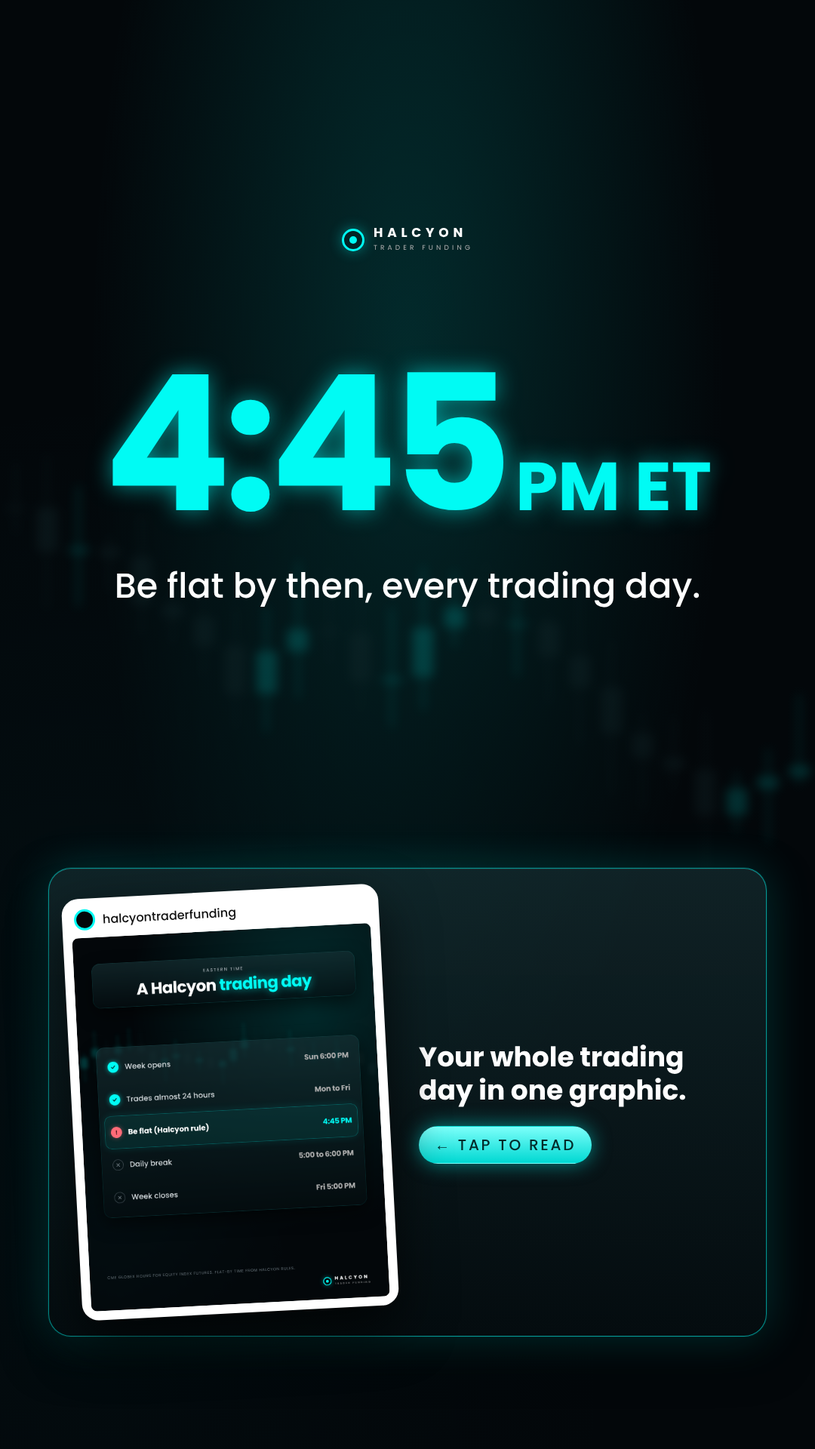
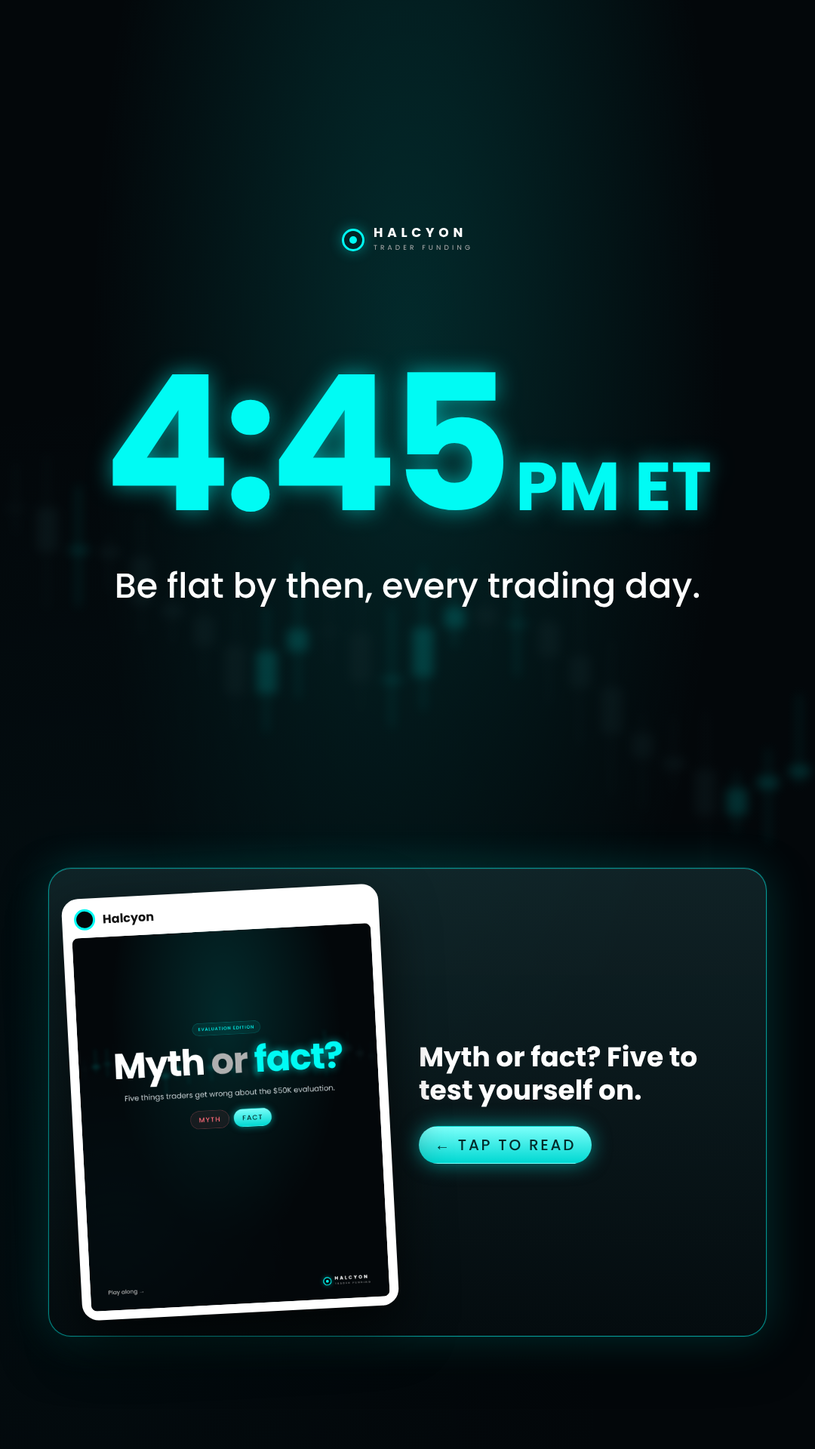
IG stories: drop handle placeholder, Monday story links to Myth or fact
Claude-Session: https://claude.ai/code/session_014Wg4vonDNkrUksnr9PVWof

Changed region(s): [[0.0917, 0.625, 0.4583, 0.8438], [0.5194, 0.7188, 0.8556, 0.7812]]

diff --git a/ig/data.js b/ig/data.js
@@ -1,1 +1,1 @@
-window.D={"posts": [{"id": "nb", "title": "News brief", "short": "News brief", "when": "News · Carousel", "brief": {"job": "The big market story in plain English within 24 hours, told in points and finished with the Halcyon angle: how much of a $2,000 drawdown the move would use on one ES and one MES.", "topics": "Big market days · Monthly recaps · Fed, CPI and jobs days · Big tech earnings", "fixed": "TikTok glow-panel look: blurred candle backdrop, glowing hero chart on the cover, glass stat panels, header panels, round bars. Moves shown in points or percent, never as dollar wins. The drawdown meter slide is the signature. Ends on a Follow, Save, Discord slide.", "cadence": "Within 24 hours of major news"}, "versions": [{"name": "Best post-midterm day since 1982 (4 Nov)", "caption": "The Dow just had its best post-midterm day since 1982 📈\nUp 3.03% on Wednesday, while oil slid about 8.5%.\nThe S&P 500 moved 119.7 points. On one ES that's three times a whole $2,000 drawdown. On one MES it's under a third.\nSame chart, very different evenings, depending on your size.\nWere you in it or watching?\n\n👉 Talk through your Wednesday in our Discord: link in bio\n\nHalcyon offers simulated educational accounts. Results not guaranteed. T&C apply.\n#futurestrading #daytrading #stockmarket #ES", "frames": [{"src": "img/nbA_1.png", "cap": "Cover"}, {"src": "img/nbA_2.png", "cap": "Movers"}, {"src": "img/nbA_3.png", "cap": "Why"}, {"src": "img/nbA_4.png", "cap": "In points"}, {"src": "img/nbA_5.png", "cap": "Drawdown meter"}, {"src": "img/nbA_6.png", "cap": "Follow"}], "links": [{"label": "TheStreet, close 4 Nov", "url": "https://www.thestreet.com/stock-market-today/stock-market-today-dow-jones-sp-500-nasdaq-updates-nov-04-2026"}, {"label": "CNN, best post-midterm day since 1982", "url": "https://www.cnn.com/2026/11/04/investing/us-markets-midterm-elections"}, {"label": "Finwire, oil, gold and yields", "url": "https://finwire.io/news/forex-news/financial-forex-market-recap-nov-4-2026"}]}, {"name": "October recap", "caption": "October was a rough month inside a good year 📉\nThe S&P 500 fell 2.11% and the Nasdaq 6.03% as AI spending doubts hit tech. Both are still up more than 9% this year.\nThe S&P drifted about 163 points over the month. That's four times the room a $2,000 drawdown gives one ES.\nHow did October treat you?\n\n👉 Share your October in our Discord: link in bio\n\nHalcyon offers simulated educational accounts. Results not guaranteed. T&C apply.\n#futurestrading #marketrecap #daytrading", "frames": [{"src": "img/nbB_1.png", "cap": "Cover"}, {"src": "img/nbB_2.png", "cap": "Month vs year"}, {"src": "img/nbB_3.png", "cap": "Why"}, {"src": "img/nbB_4.png", "cap": "Drawdown meter"}, {"src": "img/nbB_5.png", "cap": "Follow"}], "links": [{"label": "Tapeboard, October 2026 recap", "url": "https://tapeboard.com/blog/monthly-recap-2026-10"}]}]}, {"id": "gc", "title": "Group chat", "short": "Group chat", "when": "News · Carousel · New", "brief": {"job": "The day's news told as a traders' group chat, then a fact-check slide with the real numbers. The fun way into a news day, for people who scroll past charts.", "topics": "Wild market days · Surprise data · Holiday sessions · Anything the timeline is yelling about", "fixed": "Glass phone-style chat panel with cyan bubbles for 'me'. Two chat slides, then a fact-checked checklist with sources. Invented first names only, never real people.", "cadence": "On big news days, 1 to 2 a week"}, "versions": [{"name": "Oil day in the group chat (4 Nov)", "caption": "The group chat on Wednesday 💀\nOil fell about 8.5%, gold went back above $4,000 and the Dow ripped 1,569 points.\nSomewhere, a CL long is being held for the weekend.\nWhat did your chat look like?\n\n👉 Bring the screenshots to our Discord: link in bio\n\n#tradinghumor #futurestrading #crudeoil #daytrading", "frames": [{"src": "img/gcA_1.png", "cap": "Chat 1"}, {"src": "img/gcA_2.png", "cap": "Chat 2"}, {"src": "img/gcA_3.png", "cap": "Fact-check"}], "links": [{"label": "TheStreet, close 4 Nov", "url": "https://www.thestreet.com/stock-market-today/stock-market-today-dow-jones-sp-500-nasdaq-updates-nov-04-2026"}, {"label": "CNN, best post-midterm day since 1982", "url": "https://www.cnn.com/2026/11/04/investing/us-markets-midterm-elections"}, {"label": "Finwire, oil, gold and yields", "url": "https://finwire.io/news/forex-news/financial-forex-market-recap-nov-4-2026"}]}]}, {"id": "na", "title": "News alert", "short": "News alert", "when": "News · Single", "brief": {"job": "One fast graphic for a big move, posted the same day. A little personality in the headline, the facts straight underneath.", "topics": "Oil, gold and index moves · Record days · Surprise data", "fixed": "Glowing glass panel with a before and after bar pair, or one giant glowing number. Red news pill, two-line headline with a glowing half, source line.", "cadence": "Same day as the move"}, "versions": [{"name": "Oil had a rough Wednesday", "caption": "Oil had a rough Wednesday 🛢\nWTI slid about 8.5% in one session, to near $89, as war-risk talk cooled after the election.\nCrude traders, how are we holding up?\n\n👉 Swap oil stories in our Discord: link in bio\n\n#crudeoil #futurestrading #marketnews", "frames": [{"src": "img/naA.png", "cap": "Oil"}], "links": [{"label": "Finwire, oil, gold and yields", "url": "https://finwire.io/news/forex-news/financial-forex-market-recap-nov-4-2026"}]}, {"name": "Gold back above $4,000", "caption": "Gold is back above $4,000 🟡\nUp about 3.3% on Wednesday as the dollar and bond yields slipped.\nBull or bear from here?\n\n👉 Make your call in our Discord: link in bio\n\n#gold #futurestrading #marketnews", "frames": [{"src": "img/naB.png", "cap": "Gold"}], "links": [{"label": "Finwire, oil, gold and yields", "url": "https://finwire.io/news/forex-news/financial-forex-market-recap-nov-4-2026"}]}, {"name": "Dow +1,569", "caption": "+1,569 points in one day 📈\nThe Dow's best day since April 2025, and its biggest post-midterm gain since 1982.\nWhere were you when it ripped?\n\n👉 Tell us in our Discord: link in bio\n\n#dowjones #stockmarket #futurestrading", "frames": [{"src": "img/naC.png", "cap": "Dow"}], "links": [{"label": "CNN, best post-midterm day since 1982", "url": "https://www.cnn.com/2026/11/04/investing/us-markets-midterm-elections"}]}]}, {"id": "md", "title": "Market mood", "short": "Market mood", "when": "News · Single · New", "brief": {"job": "A playful scoreboard: every big market gets a mood for the day, plus its real move. Replaces 18th Street's per-contract dollar scoreboard.", "topics": "Big days · Friday weekly wrap · Month end", "fixed": "Stacked glass rows, a mood pill for each market (cyan, red or grey), the move glowing on the right. The day's winner gets the glowing panel.", "cadence": "After big days, or Fridays"}, "versions": [{"name": "How every market's Wednesday went", "caption": "How every market's Wednesday went 😮💨\nThe Dow had its best day since April 2025. Oil was down bad. The VIX took the day off.\nWhich one matched your mood?\n\n👉 Drop your mood in our Discord: link in bio\n\n#futurestrading #tradinghumor #stockmarket", "frames": [{"src": "img/mdA.png", "cap": "Mood board"}], "links": [{"label": "TheStreet, close 4 Nov", "url": "https://www.thestreet.com/stock-market-today/stock-market-today-dow-jones-sp-500-nasdaq-updates-nov-04-2026"}, {"label": "CNN, best post-midterm day since 1982", "url": "https://www.cnn.com/2026/11/04/investing/us-markets-midterm-elections"}, {"label": "Finwire, oil, gold and yields", "url": "https://finwire.io/news/forex-news/financial-forex-market-recap-nov-4-2026"}]}]}, {"id": "wk", "title": "This week", "short": "This week", "when": "News · Carousel", "brief": {"job": "Every Sunday, the week's market-moving events with Eastern times, and the Halcyon rule that applies to each one.", "topics": "CPI, PPI, jobs, Fed days · Holidays and early closes · Big earnings", "fixed": "Glowing day-card row on the cover. One slide per event: glowing date tile, What it is and Why traders care panels, a red Halcyon rule panel where one applies, and the time huge at the bottom. Ends on a save-this-week checklist.", "cadence": "Every Sunday"}, "versions": [{"name": "Inflation week (9 to 13 Nov)", "caption": "Inflation week is here 🗓\nCPI lands Tuesday at 8:30 AM ET and PPI follows on Friday, with a bond holiday in between.\nPlan your trade before 8:30, or give yourself permission to sit it out.\nSave this so Tuesday doesn't sneak up on you.\n\n👉 Plan the week with us in our Discord: link in bio\n\nHalcyon offers simulated educational accounts. Results not guaranteed. T&C apply.\n#futurestrading #CPI #economiccalendar #daytrading", "frames": [{"src": "img/wkA_1.png", "cap": "Cover"}, {"src": "img/wkA_2.png", "cap": "CPI"}, {"src": "img/wkA_3.png", "cap": "Veterans Day"}, {"src": "img/wkA_4.png", "cap": "PPI"}, {"src": "img/wkA_5.png", "cap": "Save this week"}], "links": [{"label": "Release calendar (CPI, PPI)", "url": "https://fedratecalc.com/us-economic-calendar/november-2026/"}, {"label": "Schwab week ahead", "url": "https://www.schwab.com/learn/story/stock-market-update-open"}]}, {"name": "Thanksgiving week (23 to 27 Nov)", "caption": "Short week, busy Wednesday 🦃\nGDP and PCE drop at the same second on Wednesday, then Thanksgiving cuts two sessions short.\nHoliday markets are thin, so small orders can move price more than you'd expect.\nSave this for the week.\n\n👉 Check holiday hours with us in our Discord: link in bio\n\nHalcyon offers simulated educational accounts. Results not guaranteed. T&C apply.\n#futurestrading #thanksgiving #tradinghours", "frames": [{"src": "img/wkB_1.png", "cap": "Cover"}, {"src": "img/wkB_2.png", "cap": "GDP + PCE"}, {"src": "img/wkB_3.png", "cap": "Thanksgiving"}, {"src": "img/wkB_4.png", "cap": "Day after"}, {"src": "img/wkB_5.png", "cap": "Save this week"}], "links": [{"label": "CME holiday calendar", "url": "https://www.cmegroup.com/tools-information/holiday-calendar.html"}, {"label": "QuantVPS, CME holiday hours 2026", "url": "https://www.quantvps.com/blog/cme-holiday-schedule"}]}]}, {"id": "et", "title": "Every trader should know", "short": "Explainers", "when": "Explainer · Carousel", "brief": {"job": "One idea a futures trader needs, one step per slide, with a real example from this week's market. Same question-hook, one-idea-per-slide rhythm as the TikTok trailing drawdown carousel.", "topics": "Drawdown in points · Order types · Contract sizing · Reading a release", "fixed": "Question hook on the cover, header panels marked Step 1, 2, 3, glass tables and price ladders, the drawdown meter for real examples. Ends on Follow, Save, Discord.", "cadence": "Weekly"}, "versions": [{"name": "How many points is your drawdown?", "caption": "How many points is your drawdown? 📏\nOn one ES, $2,000 is 40 points. On one MES it's 400.\nWednesday the S&P moved 119.7 points, so the contract you pick decides whether that's a normal day or the end of the account.\nSave this before you size your next trade.\n\n👉 Questions on sizing? Ask in our Discord: link in bio\n\nHalcyon offers simulated educational accounts. Results not guaranteed. T&C apply.\n#futurestrading #ES #riskmanagement #propfirm", "frames": [{"src": "img/etA_1.png", "cap": "Cover"}, {"src": "img/etA_2.png", "cap": "Point values"}, {"src": "img/etA_3.png", "cap": "Room in points"}, {"src": "img/etA_4.png", "cap": "Real example"}, {"src": "img/etA_5.png", "cap": "Micros"}, {"src": "img/etA_6.png", "cap": "Follow"}], "links": [{"label": "CME E-mini S&P 500 specs", "url": "https://www.cmegroup.com/markets/equities/sp/e-mini-sandp500.contractSpecs.html"}, {"label": "Halcyon site (rules, fees)", "url": "https://www.halcyontraderfunding.com"}]}, {"name": "Market, limit or stop?", "caption": "Market, limit or stop? 🎯\nA market order fills now. A limit waits for your price. A stop turns into a market order the moment it's touched, which is why it can fill past your level on CPI mornings.\nWhich one surprised you the first time?\n\n👉 Ask us anything about orders in our Discord: link in bio\n\nHalcyon offers simulated educational accounts. Results not guaranteed. T&C apply.\n#futurestrading #tradingeducation #daytrading", "frames": [{"src": "img/etB_1.png", "cap": "Cover"}, {"src": "img/etB_2.png", "cap": "Market"}, {"src": "img/etB_3.png", "cap": "Limit"}, {"src": "img/etB_4.png", "cap": "Stop"}, {"src": "img/etB_5.png", "cap": "Follow"}], "links": [{"label": "Halcyon site (rules, fees)", "url": "https://www.halcyontraderfunding.com"}]}]}, {"id": "mm", "title": "Meme explainer", "short": "Meme explainer", "when": "Explainer · Carousel", "brief": {"job": "A joke traders recognise, with the rule underneath. The IG cousin of the TikTok 4:44 PM and CPI memes, so the same jokes reinforce each other across both accounts.", "topics": "Rules that end accounts · Myths about evaluations · Trader habits", "fixed": "Meme panel in glass on top, a red rule panel with a warning icon below. Built from type, chat bubbles and order tickets, so nothing needs a licensed meme. Myth or fact uses a quote panel and a tilted MYTH or FACT stamp.", "cadence": "Weekly"}, "versions": [{"name": "4 ways to fail without a losing trade", "caption": "Your strategy can be fine and the account can still end 😅\nHolding at 4:45 PM ET, skipping the stop, straddling the CPI print or hedging across accounts. All four break the rules, win or lose.\nWhich one have you seen someone try?\n\n👉 More rules, explained simply, in our Discord: link in bio\n\nHalcyon offers simulated educational accounts. Results not guaranteed. T&C apply.\n#tradinghumor #propfirm #futurestrading #daytrading", "frames": [{"src": "img/mmA_1.png", "cap": "Cover"}, {"src": "img/mmA_2.png", "cap": "The clock"}, {"src": "img/mmA_3.png", "cap": "The stop"}, {"src": "img/mmA_4.png", "cap": "The cheat code"}, {"src": "img/mmA_5.png", "cap": "The big brain"}, {"src": "img/mmA_6.png", "cap": "Takeaway"}], "links": [{"label": "Halcyon site (rules, fees)", "url": "https://www.halcyontraderfunding.com"}]}, {"name": "Myth or fact: evaluation edition", "caption": "Myth or fact, evaluation edition 🤔\nFive things traders get wrong about the $50K evaluation, from the 1-day minimum to how 25 micros really compare to 5 minis.\nPlay along and drop your score in the comments.\n\n👉 Check every rule with us in our Discord: link in bio\n\nHalcyon offers simulated educational accounts. Results not guaranteed. T&C apply.\n#propfirm #futurestrading #mythorfact", "frames": [{"src": "img/mmB_1.png", "cap": "Cover"}, {"src": "img/mmB_2.png", "cap": "01"}, {"src": "img/mmB_3.png", "cap": "02"}, {"src": "img/mmB_4.png", "cap": "03"}, {"src": "img/mmB_5.png", "cap": "04"}, {"src": "img/mmB_6.png", "cap": "05"}, {"src": "img/mmB_7.png", "cap": "Score"}], "links": [{"label": "Halcyon site (rules, fees)", "url": "https://www.halcyontraderfunding.com"}]}]}, {"id": "kh", "title": "Know your hours", "short": "Know your hours", "when": "Explainer · Single", "brief": {"job": "A save-worthy timetable: when the market opens, breaks and closes, and when Halcyon needs you flat.", "topics": "A trading day · Holiday hours", "fixed": "Header panel and one glass checklist, the key row glowing. Cyan check, grey cross or red warning icons. All times Eastern.", "cadence": "Monthly, plus before holidays"}, "versions": [{"name": "A Halcyon trading day", "caption": "Save this one ⏰\nThe week opens Sunday at 6:00 PM ET and futures trade almost 24 hours from there.\n4:45 PM ET is the one that catches people. Set an alarm and let that last minute be boring.\n\n👉 More rules, explained simply, in our Discord: link in bio\n\nHalcyon offers simulated educational accounts. Results not guaranteed. T&C apply.\n#futurestrading #tradinghours #daytrading", "frames": [{"src": "img/khA.png", "cap": "Trading day"}], "links": [{"label": "CME trading hours", "url": "https://www.cmegroup.com/trading-hours.html"}, {"label": "Halcyon site (rules, fees)", "url": "https://www.halcyontraderfunding.com"}]}, {"name": "Thanksgiving hours", "caption": "Thanksgiving hours for ES and NQ 🦃\nThursday halts at 1:00 PM ET and reopens at 6:00 PM ET. Friday closes early at 1:15 PM ET.\nThin markets, early exits. Plan around them.\n\n👉 Holiday questions? Ask in our Discord: link in bio\n\n#futurestrading #thanksgiving #tradinghours", "frames": [{"src": "img/khC.png", "cap": "Thanksgiving"}], "links": [{"label": "CME holiday calendar", "url": "https://www.cmegroup.com/tools-information/holiday-calendar.html"}]}]}, {"id": "dy", "title": "Halcyon Dynamic in four cards", "short": "Dynamic cards", "when": "Promo · Carousel · New", "brief": {"job": "The main promo carousel, built from the same four numbers as the TikTok 'Four numbers' explainer and the Option D promo, so the offer looks the same everywhere.", "topics": "Halcyon Dynamic · Later: reward account sizes, platform picks", "fixed": "Fanned glass cards on the cover, then one glowing number per slide with a 1/4 pill, the Trailing / End of day toggle and page dots. A good-to-know slide, then the Start from $51 end card.", "cadence": "Every 2 weeks, plus launches"}, "versions": [{"name": "Your $50K evaluation in four cards", "caption": "Your $50K evaluation in four cards 🃏\nA $3,000 target, a $2,000 drawdown, up to 5 minis or 25 micros, and flat by 4:45 PM ET.\nPick Trailing for $51 or end of day for $53. Every rule is on our site before you start, so day one feels calm.\n\n👉 Start your evaluation: link in bio\n\nHalcyon offers simulated educational accounts. Results not guaranteed. T&C apply.\n#propfirm #futurestrading #daytrading #NQ", "frames": [{"src": "img/dyA_1.png", "cap": "Cover"}, {"src": "img/dyA_2.png", "cap": "Target"}, {"src": "img/dyA_3.png", "cap": "Drawdown"}, {"src": "img/dyA_4.png", "cap": "Contracts"}, {"src": "img/dyA_5.png", "cap": "Session close"}, {"src": "img/dyA_6.png", "cap": "Good to know"}, {"src": "img/dyA_7.png", "cap": "Start"}], "links": [{"label": "Halcyon site (rules, fees)", "url": "https://www.halcyontraderfunding.com"}]}]}, {"id": "wh", "title": "Why Halcyon", "short": "Why Halcyon", "when": "Promo · Single", "brief": {"job": "Answer one buyer question in four points, using only facts from the Halcyon site.", "topics": "Why Halcyon · Who it's for · Platforms", "fixed": "Huge headline with a glowing half, four glass step cards with numbered circles. Disclaimer on every graphic.", "cadence": "Every 2 weeks, alternating with the four cards"}, "versions": [{"name": "Why Halcyon?", "caption": "Why Halcyon? 💡\nOne fee from $51, a 1-day minimum, and your pick of Trailing or end-of-day drawdown.\nReward accounts have no daily loss limit, so the drawdown is the line that matters.\n\n👉 See every rule: link in bio\n\nHalcyon offers simulated educational accounts. Results not guaranteed. T&C apply.\n#propfirm #futurestrading #daytrading", "frames": [{"src": "img/whA.png", "cap": "Why Halcyon"}], "links": [{"label": "Halcyon site (rules, fees)", "url": "https://www.halcyontraderfunding.com"}]}, {"name": "Who is it for?", "caption": "Who is Halcyon for? 🎯\nFutures traders with a plan, on whatever schedule and platform suits them.\nAnd people who like reading the rules before they pay. Sound like you?\n\n👉 Start from $51: link in bio\n\nHalcyon offers simulated educational accounts. Results not guaranteed. T&C apply.\n#propfirm #futurestrading #daytrader", "frames": [{"src": "img/whB.png", "cap": "Who it's for"}], "links": [{"label": "Halcyon site (rules, fees)", "url": "https://www.halcyontraderfunding.com"}]}, {"name": "Platforms", "caption": "Trade on what you already know 🖥\nVolumetrica, TradingView, Quantower or DeepCharts.\nLearning the rules is enough. No new screen to learn on top.\nWhich one do you use?\n\n👉 Tell us your setup in our Discord: link in bio\n\nHalcyon offers simulated educational accounts. Results not guaranteed. T&C apply.\n#tradingview #volumetrica #futurestrading", "frames": [{"src": "img/whC.png", "cap": "Platforms"}], "links": [{"label": "Halcyon site (rules, fees)", "url": "https://www.halcyontraderfunding.com"}]}]}, {"id": "bn", "title": "One big number", "short": "Big number", "when": "Stories", "brief": {"job": "Send story viewers to the feed post with one huge glowing number and a tappable post card.", "topics": "The day's big move · A rule · A product number", "fixed": "9:16 with the IG top and bottom bars kept clear. Glowing number with a unit, one line, the feed cover in a white post frame inside a glowing panel, and a Tap to read pill. Add the link sticker over the panel.", "cadence": "With each feed post"}, "versions": [{"name": "+3.03%", "caption": "Story. Link sticker to the News brief.", "frames": [{"src": "img/bnA.png", "cap": "Story"}], "links": []}, {"name": "4:45 PM ET", "caption": "Story. Link sticker to Know your hours.", "frames": [{"src": "img/bnB.png", "cap": "Story"}], "links": []}, {"name": "40 pts", "caption": "Story. Link sticker to How many points is your drawdown?", "frames": [{"src": "img/bnC.png", "cap": "Story"}], "links": []}]}]};
+window.D={"posts": [{"id": "nb", "title": "News brief", "short": "News brief", "when": "News · Carousel", "brief": {"job": "The big market story in plain English within 24 hours, told in points and finished with the Halcyon angle: how much of a $2,000 drawdown the move would use on one ES and one MES.", "topics": "Big market days · Monthly recaps · Fed, CPI and jobs days · Big tech earnings", "fixed": "TikTok glow-panel look: blurred candle backdrop, glowing hero chart on the cover, glass stat panels, header panels, round bars. Moves shown in points or percent, never as dollar wins. The drawdown meter slide is the signature. Ends on a Follow, Save, Discord slide.", "cadence": "Within 24 hours of major news"}, "versions": [{"name": "Best post-midterm day since 1982 (4 Nov)", "caption": "The Dow just had its best post-midterm day since 1982 📈\nUp 3.03% on Wednesday, while oil slid about 8.5%.\nThe S&P 500 moved 119.7 points. On one ES that's three times a whole $2,000 drawdown. On one MES it's under a third.\nSame chart, very different evenings, depending on your size.\nWere you in it or watching?\n\n👉 Talk through your Wednesday in our Discord: link in bio\n\nHalcyon offers simulated educational accounts. Results not guaranteed. T&C apply.\n#futurestrading #daytrading #stockmarket #ES", "frames": [{"src": "img/nbA_1.png", "cap": "Cover"}, {"src": "img/nbA_2.png", "cap": "Movers"}, {"src": "img/nbA_3.png", "cap": "Why"}, {"src": "img/nbA_4.png", "cap": "In points"}, {"src": "img/nbA_5.png", "cap": "Drawdown meter"}, {"src": "img/nbA_6.png", "cap": "Follow"}], "links": [{"label": "TheStreet, close 4 Nov", "url": "https://www.thestreet.com/stock-market-today/stock-market-today-dow-jones-sp-500-nasdaq-updates-nov-04-2026"}, {"label": "CNN, best post-midterm day since 1982", "url": "https://www.cnn.com/2026/11/04/investing/us-markets-midterm-elections"}, {"label": "Finwire, oil, gold and yields", "url": "https://finwire.io/news/forex-news/financial-forex-market-recap-nov-4-2026"}]}, {"name": "October recap", "caption": "October was a rough month inside a good year 📉\nThe S&P 500 fell 2.11% and the Nasdaq 6.03% as AI spending doubts hit tech. Both are still up more than 9% this year.\nThe S&P drifted about 163 points over the month. That's four times the room a $2,000 drawdown gives one ES.\nHow did October treat you?\n\n👉 Share your October in our Discord: link in bio\n\nHalcyon offers simulated educational accounts. Results not guaranteed. T&C apply.\n#futurestrading #marketrecap #daytrading", "frames": [{"src": "img/nbB_1.png", "cap": "Cover"}, {"src": "img/nbB_2.png", "cap": "Month vs year"}, {"src": "img/nbB_3.png", "cap": "Why"}, {"src": "img/nbB_4.png", "cap": "Drawdown meter"}, {"src": "img/nbB_5.png", "cap": "Follow"}], "links": [{"label": "Tapeboard, October 2026 recap", "url": "https://tapeboard.com/blog/monthly-recap-2026-10"}]}]}, {"id": "gc", "title": "Group chat", "short": "Group chat", "when": "News · Carousel · New", "brief": {"job": "The day's news told as a traders' group chat, then a fact-check slide with the real numbers. The fun way into a news day, for people who scroll past charts.", "topics": "Wild market days · Surprise data · Holiday sessions · Anything the timeline is yelling about", "fixed": "Glass phone-style chat panel with cyan bubbles for 'me'. Two chat slides, then a fact-checked checklist with sources. Invented first names only, never real people.", "cadence": "On big news days, 1 to 2 a week"}, "versions": [{"name": "Oil day in the group chat (4 Nov)", "caption": "The group chat on Wednesday 💀\nOil fell about 8.5%, gold went back above $4,000 and the Dow ripped 1,569 points.\nSomewhere, a CL long is being held for the weekend.\nWhat did your chat look like?\n\n👉 Bring the screenshots to our Discord: link in bio\n\n#tradinghumor #futurestrading #crudeoil #daytrading", "frames": [{"src": "img/gcA_1.png", "cap": "Chat 1"}, {"src": "img/gcA_2.png", "cap": "Chat 2"}, {"src": "img/gcA_3.png", "cap": "Fact-check"}], "links": [{"label": "TheStreet, close 4 Nov", "url": "https://www.thestreet.com/stock-market-today/stock-market-today-dow-jones-sp-500-nasdaq-updates-nov-04-2026"}, {"label": "CNN, best post-midterm day since 1982", "url": "https://www.cnn.com/2026/11/04/investing/us-markets-midterm-elections"}, {"label": "Finwire, oil, gold and yields", "url": "https://finwire.io/news/forex-news/financial-forex-market-recap-nov-4-2026"}]}]}, {"id": "na", "title": "News alert", "short": "News alert", "when": "News · Single", "brief": {"job": "One fast graphic for a big move, posted the same day. A little personality in the headline, the facts straight underneath.", "topics": "Oil, gold and index moves · Record days · Surprise data", "fixed": "Glowing glass panel with a before and after bar pair, or one giant glowing number. Red news pill, two-line headline with a glowing half, source line.", "cadence": "Same day as the move"}, "versions": [{"name": "Oil had a rough Wednesday", "caption": "Oil had a rough Wednesday 🛢\nWTI slid about 8.5% in one session, to near $89, as war-risk talk cooled after the election.\nCrude traders, how are we holding up?\n\n👉 Swap oil stories in our Discord: link in bio\n\n#crudeoil #futurestrading #marketnews", "frames": [{"src": "img/naA.png", "cap": "Oil"}], "links": [{"label": "Finwire, oil, gold and yields", "url": "https://finwire.io/news/forex-news/financial-forex-market-recap-nov-4-2026"}]}, {"name": "Gold back above $4,000", "caption": "Gold is back above $4,000 🟡\nUp about 3.3% on Wednesday as the dollar and bond yields slipped.\nBull or bear from here?\n\n👉 Make your call in our Discord: link in bio\n\n#gold #futurestrading #marketnews", "frames": [{"src": "img/naB.png", "cap": "Gold"}], "links": [{"label": "Finwire, oil, gold and yields", "url": "https://finwire.io/news/forex-news/financial-forex-market-recap-nov-4-2026"}]}, {"name": "Dow +1,569", "caption": "+1,569 points in one day 📈\nThe Dow's best day since April 2025, and its biggest post-midterm gain since 1982.\nWhere were you when it ripped?\n\n👉 Tell us in our Discord: link in bio\n\n#dowjones #stockmarket #futurestrading", "frames": [{"src": "img/naC.png", "cap": "Dow"}], "links": [{"label": "CNN, best post-midterm day since 1982", "url": "https://www.cnn.com/2026/11/04/investing/us-markets-midterm-elections"}]}]}, {"id": "md", "title": "Market mood", "short": "Market mood", "when": "News · Single · New", "brief": {"job": "A playful scoreboard: every big market gets a mood for the day, plus its real move. Replaces 18th Street's per-contract dollar scoreboard.", "topics": "Big days · Friday weekly wrap · Month end", "fixed": "Stacked glass rows, a mood pill for each market (cyan, red or grey), the move glowing on the right. The day's winner gets the glowing panel.", "cadence": "After big days, or Fridays"}, "versions": [{"name": "How every market's Wednesday went", "caption": "How every market's Wednesday went 😮💨\nThe Dow had its best day since April 2025. Oil was down bad. The VIX took the day off.\nWhich one matched your mood?\n\n👉 Drop your mood in our Discord: link in bio\n\n#futurestrading #tradinghumor #stockmarket", "frames": [{"src": "img/mdA.png", "cap": "Mood board"}], "links": [{"label": "TheStreet, close 4 Nov", "url": "https://www.thestreet.com/stock-market-today/stock-market-today-dow-jones-sp-500-nasdaq-updates-nov-04-2026"}, {"label": "CNN, best post-midterm day since 1982", "url": "https://www.cnn.com/2026/11/04/investing/us-markets-midterm-elections"}, {"label": "Finwire, oil, gold and yields", "url": "https://finwire.io/news/forex-news/financial-forex-market-recap-nov-4-2026"}]}]}, {"id": "wk", "title": "This week", "short": "This week", "when": "News · Carousel", "brief": {"job": "Every Sunday, the week's market-moving events with Eastern times, and the Halcyon rule that applies to each one.", "topics": "CPI, PPI, jobs, Fed days · Holidays and early closes · Big earnings", "fixed": "Glowing day-card row on the cover. One slide per event: glowing date tile, What it is and Why traders care panels, a red Halcyon rule panel where one applies, and the time huge at the bottom. Ends on a save-this-week checklist.", "cadence": "Every Sunday"}, "versions": [{"name": "Inflation week (9 to 13 Nov)", "caption": "Inflation week is here 🗓\nCPI lands Tuesday at 8:30 AM ET and PPI follows on Friday, with a bond holiday in between.\nPlan your trade before 8:30, or give yourself permission to sit it out.\nSave this so Tuesday doesn't sneak up on you.\n\n👉 Plan the week with us in our Discord: link in bio\n\nHalcyon offers simulated educational accounts. Results not guaranteed. T&C apply.\n#futurestrading #CPI #economiccalendar #daytrading", "frames": [{"src": "img/wkA_1.png", "cap": "Cover"}, {"src": "img/wkA_2.png", "cap": "CPI"}, {"src": "img/wkA_3.png", "cap": "Veterans Day"}, {"src": "img/wkA_4.png", "cap": "PPI"}, {"src": "img/wkA_5.png", "cap": "Save this week"}], "links": [{"label": "Release calendar (CPI, PPI)", "url": "https://fedratecalc.com/us-economic-calendar/november-2026/"}, {"label": "Schwab week ahead", "url": "https://www.schwab.com/learn/story/stock-market-update-open"}]}, {"name": "Thanksgiving week (23 to 27 Nov)", "caption": "Short week, busy Wednesday 🦃\nGDP and PCE drop at the same second on Wednesday, then Thanksgiving cuts two sessions short.\nHoliday markets are thin, so small orders can move price more than you'd expect.\nSave this for the week.\n\n👉 Check holiday hours with us in our Discord: link in bio\n\nHalcyon offers simulated educational accounts. Results not guaranteed. T&C apply.\n#futurestrading #thanksgiving #tradinghours", "frames": [{"src": "img/wkB_1.png", "cap": "Cover"}, {"src": "img/wkB_2.png", "cap": "GDP + PCE"}, {"src": "img/wkB_3.png", "cap": "Thanksgiving"}, {"src": "img/wkB_4.png", "cap": "Day after"}, {"src": "img/wkB_5.png", "cap": "Save this week"}], "links": [{"label": "CME holiday calendar", "url": "https://www.cmegroup.com/tools-information/holiday-calendar.html"}, {"label": "QuantVPS, CME holiday hours 2026", "url": "https://www.quantvps.com/blog/cme-holiday-schedule"}]}]}, {"id": "et", "title": "Every trader should know", "short": "Explainers", "when": "Explainer · Carousel", "brief": {"job": "One idea a futures trader needs, one step per slide, with a real example from this week's market. Same question-hook, one-idea-per-slide rhythm as the TikTok trailing drawdown carousel.", "topics": "Drawdown in points · Order types · Contract sizing · Reading a release", "fixed": "Question hook on the cover, header panels marked Step 1, 2, 3, glass tables and price ladders, the drawdown meter for real examples. Ends on Follow, Save, Discord.", "cadence": "Weekly"}, "versions": [{"name": "How many points is your drawdown?", "caption": "How many points is your drawdown? 📏\nOn one ES, $2,000 is 40 points. On one MES it's 400.\nWednesday the S&P moved 119.7 points, so the contract you pick decides whether that's a normal day or the end of the account.\nSave this before you size your next trade.\n\n👉 Questions on sizing? Ask in our Discord: link in bio\n\nHalcyon offers simulated educational accounts. Results not guaranteed. T&C apply.\n#futurestrading #ES #riskmanagement #propfirm", "frames": [{"src": "img/etA_1.png", "cap": "Cover"}, {"src": "img/etA_2.png", "cap": "Point values"}, {"src": "img/etA_3.png", "cap": "Room in points"}, {"src": "img/etA_4.png", "cap": "Real example"}, {"src": "img/etA_5.png", "cap": "Micros"}, {"src": "img/etA_6.png", "cap": "Follow"}], "links": [{"label": "CME E-mini S&P 500 specs", "url": "https://www.cmegroup.com/markets/equities/sp/e-mini-sandp500.contractSpecs.html"}, {"label": "Halcyon site (rules, fees)", "url": "https://www.halcyontraderfunding.com"}]}, {"name": "Market, limit or stop?", "caption": "Market, limit or stop? 🎯\nA market order fills now. A limit waits for your price. A stop turns into a market order the moment it's touched, which is why it can fill past your level on CPI mornings.\nWhich one surprised you the first time?\n\n👉 Ask us anything about orders in our Discord: link in bio\n\nHalcyon offers simulated educational accounts. Results not guaranteed. T&C apply.\n#futurestrading #tradingeducation #daytrading", "frames": [{"src": "img/etB_1.png", "cap": "Cover"}, {"src": "img/etB_2.png", "cap": "Market"}, {"src": "img/etB_3.png", "cap": "Limit"}, {"src": "img/etB_4.png", "cap": "Stop"}, {"src": "img/etB_5.png", "cap": "Follow"}], "links": [{"label": "Halcyon site (rules, fees)", "url": "https://www.halcyontraderfunding.com"}]}]}, {"id": "mm", "title": "Meme explainer", "short": "Meme explainer", "when": "Explainer · Carousel", "brief": {"job": "A joke traders recognise, with the rule underneath. The IG cousin of the TikTok 4:44 PM and CPI memes, so the same jokes reinforce each other across both accounts.", "topics": "Rules that end accounts · Myths about evaluations · Trader habits", "fixed": "Meme panel in glass on top, a red rule panel with a warning icon below. Built from type, chat bubbles and order tickets, so nothing needs a licensed meme. Myth or fact uses a quote panel and a tilted MYTH or FACT stamp.", "cadence": "Weekly"}, "versions": [{"name": "4 ways to fail without a losing trade", "caption": "Your strategy can be fine and the account can still end 😅\nHolding at 4:45 PM ET, skipping the stop, straddling the CPI print or hedging across accounts. All four break the rules, win or lose.\nWhich one have you seen someone try?\n\n👉 More rules, explained simply, in our Discord: link in bio\n\nHalcyon offers simulated educational accounts. Results not guaranteed. T&C apply.\n#tradinghumor #propfirm #futurestrading #daytrading", "frames": [{"src": "img/mmA_1.png", "cap": "Cover"}, {"src": "img/mmA_2.png", "cap": "The clock"}, {"src": "img/mmA_3.png", "cap": "The stop"}, {"src": "img/mmA_4.png", "cap": "The cheat code"}, {"src": "img/mmA_5.png", "cap": "The big brain"}, {"src": "img/mmA_6.png", "cap": "Takeaway"}], "links": [{"label": "Halcyon site (rules, fees)", "url": "https://www.halcyontraderfunding.com"}]}, {"name": "Myth or fact: evaluation edition", "caption": "Myth or fact, evaluation edition 🤔\nFive things traders get wrong about the $50K evaluation, from the 1-day minimum to how 25 micros really compare to 5 minis.\nPlay along and drop your score in the comments.\n\n👉 Check every rule with us in our Discord: link in bio\n\nHalcyon offers simulated educational accounts. Results not guaranteed. T&C apply.\n#propfirm #futurestrading #mythorfact", "frames": [{"src": "img/mmB_1.png", "cap": "Cover"}, {"src": "img/mmB_2.png", "cap": "01"}, {"src": "img/mmB_3.png", "cap": "02"}, {"src": "img/mmB_4.png", "cap": "03"}, {"src": "img/mmB_5.png", "cap": "04"}, {"src": "img/mmB_6.png", "cap": "05"}, {"src": "img/mmB_7.png", "cap": "Score"}], "links": [{"label": "Halcyon site (rules, fees)", "url": "https://www.halcyontraderfunding.com"}]}]}, {"id": "kh", "title": "Know your hours", "short": "Know your hours", "when": "Explainer · Single", "brief": {"job": "A save-worthy timetable: when the market opens, breaks and closes, and when Halcyon needs you flat.", "topics": "A trading day · Holiday hours", "fixed": "Header panel and one glass checklist, the key row glowing. Cyan check, grey cross or red warning icons. All times Eastern.", "cadence": "Monthly, plus before holidays"}, "versions": [{"name": "A Halcyon trading day", "caption": "Save this one ⏰\nThe week opens Sunday at 6:00 PM ET and futures trade almost 24 hours from there.\n4:45 PM ET is the one that catches people. Set an alarm and let that last minute be boring.\n\n👉 More rules, explained simply, in our Discord: link in bio\n\nHalcyon offers simulated educational accounts. Results not guaranteed. T&C apply.\n#futurestrading #tradinghours #daytrading", "frames": [{"src": "img/khA.png", "cap": "Trading day"}], "links": [{"label": "CME trading hours", "url": "https://www.cmegroup.com/trading-hours.html"}, {"label": "Halcyon site (rules, fees)", "url": "https://www.halcyontraderfunding.com"}]}, {"name": "Thanksgiving hours", "caption": "Thanksgiving hours for ES and NQ 🦃\nThursday halts at 1:00 PM ET and reopens at 6:00 PM ET. Friday closes early at 1:15 PM ET.\nThin markets, early exits. Plan around them.\n\n👉 Holiday questions? Ask in our Discord: link in bio\n\n#futurestrading #thanksgiving #tradinghours", "frames": [{"src": "img/khC.png", "cap": "Thanksgiving"}], "links": [{"label": "CME holiday calendar", "url": "https://www.cmegroup.com/tools-information/holiday-calendar.html"}]}]}, {"id": "dy", "title": "Halcyon Dynamic in four cards", "short": "Dynamic cards", "when": "Promo · Carousel · New", "brief": {"job": "The main promo carousel, built from the same four numbers as the TikTok 'Four numbers' explainer and the Option D promo, so the offer looks the same everywhere.", "topics": "Halcyon Dynamic · Later: reward account sizes, platform picks", "fixed": "Fanned glass cards on the cover, then one glowing number per slide with a 1/4 pill, the Trailing / End of day toggle and page dots. A good-to-know slide, then the Start from $51 end card.", "cadence": "Every 2 weeks, plus launches"}, "versions": [{"name": "Your $50K evaluation in four cards", "caption": "Your $50K evaluation in four cards 🃏\nA $3,000 target, a $2,000 drawdown, up to 5 minis or 25 micros, and flat by 4:45 PM ET.\nPick Trailing for $51 or end of day for $53. Every rule is on our site before you start, so day one feels calm.\n\n👉 Start your evaluation: link in bio\n\nHalcyon offers simulated educational accounts. Results not guaranteed. T&C apply.\n#propfirm #futurestrading #daytrading #NQ", "frames": [{"src": "img/dyA_1.png", "cap": "Cover"}, {"src": "img/dyA_2.png", "cap": "Target"}, {"src": "img/dyA_3.png", "cap": "Drawdown"}, {"src": "img/dyA_4.png", "cap": "Contracts"}, {"src": "img/dyA_5.png", "cap": "Session close"}, {"src": "img/dyA_6.png", "cap": "Good to know"}, {"src": "img/dyA_7.png", "cap": "Start"}], "links": [{"label": "Halcyon site (rules, fees)", "url": "https://www.halcyontraderfunding.com"}]}]}, {"id": "wh", "title": "Why Halcyon", "short": "Why Halcyon", "when": "Promo · Single", "brief": {"job": "Answer one buyer question in four points, using only facts from the Halcyon site.", "topics": "Why Halcyon · Who it's for · Platforms", "fixed": "Huge headline with a glowing half, four glass step cards with numbered circles. Disclaimer on every graphic.", "cadence": "Every 2 weeks, alternating with the four cards"}, "versions": [{"name": "Why Halcyon?", "caption": "Why Halcyon? 💡\nOne fee from $51, a 1-day minimum, and your pick of Trailing or end-of-day drawdown.\nReward accounts have no daily loss limit, so the drawdown is the line that matters.\n\n👉 See every rule: link in bio\n\nHalcyon offers simulated educational accounts. Results not guaranteed. T&C apply.\n#propfirm #futurestrading #daytrading", "frames": [{"src": "img/whA.png", "cap": "Why Halcyon"}], "links": [{"label": "Halcyon site (rules, fees)", "url": "https://www.halcyontraderfunding.com"}]}, {"name": "Who is it for?", "caption": "Who is Halcyon for? 🎯\nFutures traders with a plan, on whatever schedule and platform suits them.\nAnd people who like reading the rules before they pay. Sound like you?\n\n👉 Start from $51: link in bio\n\nHalcyon offers simulated educational accounts. Results not guaranteed. T&C apply.\n#propfirm #futurestrading #daytrader", "frames": [{"src": "img/whB.png", "cap": "Who it's for"}], "links": [{"label": "Halcyon site (rules, fees)", "url": "https://www.halcyontraderfunding.com"}]}, {"name": "Platforms", "caption": "Trade on what you already know 🖥\nVolumetrica, TradingView, Quantower or DeepCharts.\nLearning the rules is enough. No new screen to learn on top.\nWhich one do you use?\n\n👉 Tell us your setup in our Discord: link in bio\n\nHalcyon offers simulated educational accounts. Results not guaranteed. T&C apply.\n#tradingview #volumetrica #futurestrading", "frames": [{"src": "img/whC.png", "cap": "Platforms"}], "links": [{"label": "Halcyon site (rules, fees)", "url": "https://www.halcyontraderfunding.com"}]}]}, {"id": "bn", "title": "One big number", "short": "Big number", "when": "Stories", "brief": {"job": "Send story viewers to the feed post with one huge glowing number and a tappable post card.", "topics": "The day's big move · A rule · A product number", "fixed": "9:16 with the IG top and bottom bars kept clear. Glowing number with a unit, one line, the feed cover in a white post frame inside a glowing panel, and a Tap to read pill. Add the link sticker over the panel.", "cadence": "With each feed post"}, "versions": [{"name": "+3.03%", "caption": "Story. Link sticker to the News brief (on standby).", "frames": [{"src": "img/bnA.png", "cap": "Story"}], "links": []}, {"name": "4:45 PM ET", "caption": "Story. Link sticker to Myth or fact (Mon 9).", "frames": [{"src": "img/bnB.png", "cap": "Story"}], "links": []}, {"name": "40 pts", "caption": "Story. Link sticker to How many points is your drawdown? (Sat 7)", "frames": [{"src": "img/bnC.png", "cap": "Story"}], "links": []}]}]};

diff --git a/source/ig/slides.py b/source/ig/slides.py
@@ -422,7 +422,7 @@ def story(name, big, unit, line, card_img, card_title, seed, kind):
         f'<p style="font-size:46px;font-weight:500;line-height:1.25;margin:40px 0 0">{line}</p></div>'
         f'<div class="gp hot" style="position:absolute;left:64px;right:64px;top:1150px;display:flex;align-items:center;gap:40px;padding:30px">'
         f'<div style="width:420px;flex:none;background:#fff;border-radius:22px;padding:12px;transform:rotate(-3deg);box-shadow:0 30px 70px rgba(0,0,0,.7)">'
-        f'<div style="display:flex;align-items:center;gap:10px;padding:2px 4px 10px"><div style="width:28px;height:28px;border-radius:50%;background:#03070A;border:3px solid #00FBF4"></div><span style="color:#111;font-size:16px;font-weight:500">halcyontraderfunding</span></div>'
+        f'<div style="display:flex;align-items:center;gap:10px;padding:2px 4px 10px"><div style="width:28px;height:28px;border-radius:50%;background:#03070A;border:3px solid #00FBF4"></div><span style="color:#111;font-size:16px;font-weight:600">Halcyon</span></div>'
         f'<img src="{card_img}" style="width:100%;display:block;border-radius:8px"></div>'
         f'<div><p style="font-size:36px;font-weight:700;line-height:1.2;margin:0">{card_title}</p><div style="margin-top:26px"><span class="pill on" style="font-size:20px">&larr; Tap to read</span></div></div></div>'
         '<div style="position:absolute;left:64px;right:64px;top:300px;display:flex;justify-content:center">' + wordmark("margin:0") + '</div>', story=True)

diff --git a/source/ig/build_page.py b/source/ig/build_page.py
@@ -173,9 +173,9 @@ posts = [
             "fixed": "9:16 with the IG top and bottom bars kept clear. Glowing number with a unit, one line, the feed cover in a white post frame inside a glowing panel, and a Tap to read pill. Add the link sticker over the panel.",
             "cadence": "With each feed post"},
   "versions": [
-   {"name": "+3.03%", "caption": "Story. Link sticker to the News brief.", "frames": one("bnA", "Story"), "links": []},
-   {"name": "4:45 PM ET", "caption": "Story. Link sticker to Know your hours.", "frames": one("bnB", "Story"), "links": []},
-   {"name": "40 pts", "caption": "Story. Link sticker to How many points is your drawdown?", "frames": one("bnC", "Story"), "links": []},
+   {"name": "+3.03%", "caption": "Story. Link sticker to the News brief (on standby).", "frames": one("bnA", "Story"), "links": []},
+   {"name": "4:45 PM ET", "caption": "Story. Link sticker to Myth or fact (Mon 9).", "frames": one("bnB", "Story"), "links": []},
+   {"name": "40 pts", "caption": "Story. Link sticker to How many points is your drawdown? (Sat 7)", "frames": one("bnC", "Story"), "links": []},
   ]},
 ]
 

diff --git a/source/ig/render.py b/source/ig/render.py
@@ -24,7 +24,7 @@ render(list(S.items()))
 S.clear()
 I = f"file://{D}/img/"
 story("bnA", "+3.03", "%", "The Dow&rsquo;s best post-midterm day since 1982.", I + "nbA_1.png", "The full story, in points.", 121, "vshape")
-story("bnB", "4:45", "PM ET", "Be flat by then, every trading day.", I + "khA.png", "Your whole trading day in one graphic.", 122, "flat")
+story("bnB", "4:45", "PM ET", "Be flat by then, every trading day.", I + "mmB_1.png", "Myth or fact? Five to test yourself on.", 122, "flat")
 story("bnC", "40", "pts", "Your whole $2,000 drawdown on one ES contract.", I + "etA_1.png", "How many points is yours?", 123, "up")
 render(list(S.items()))
 print("done")
